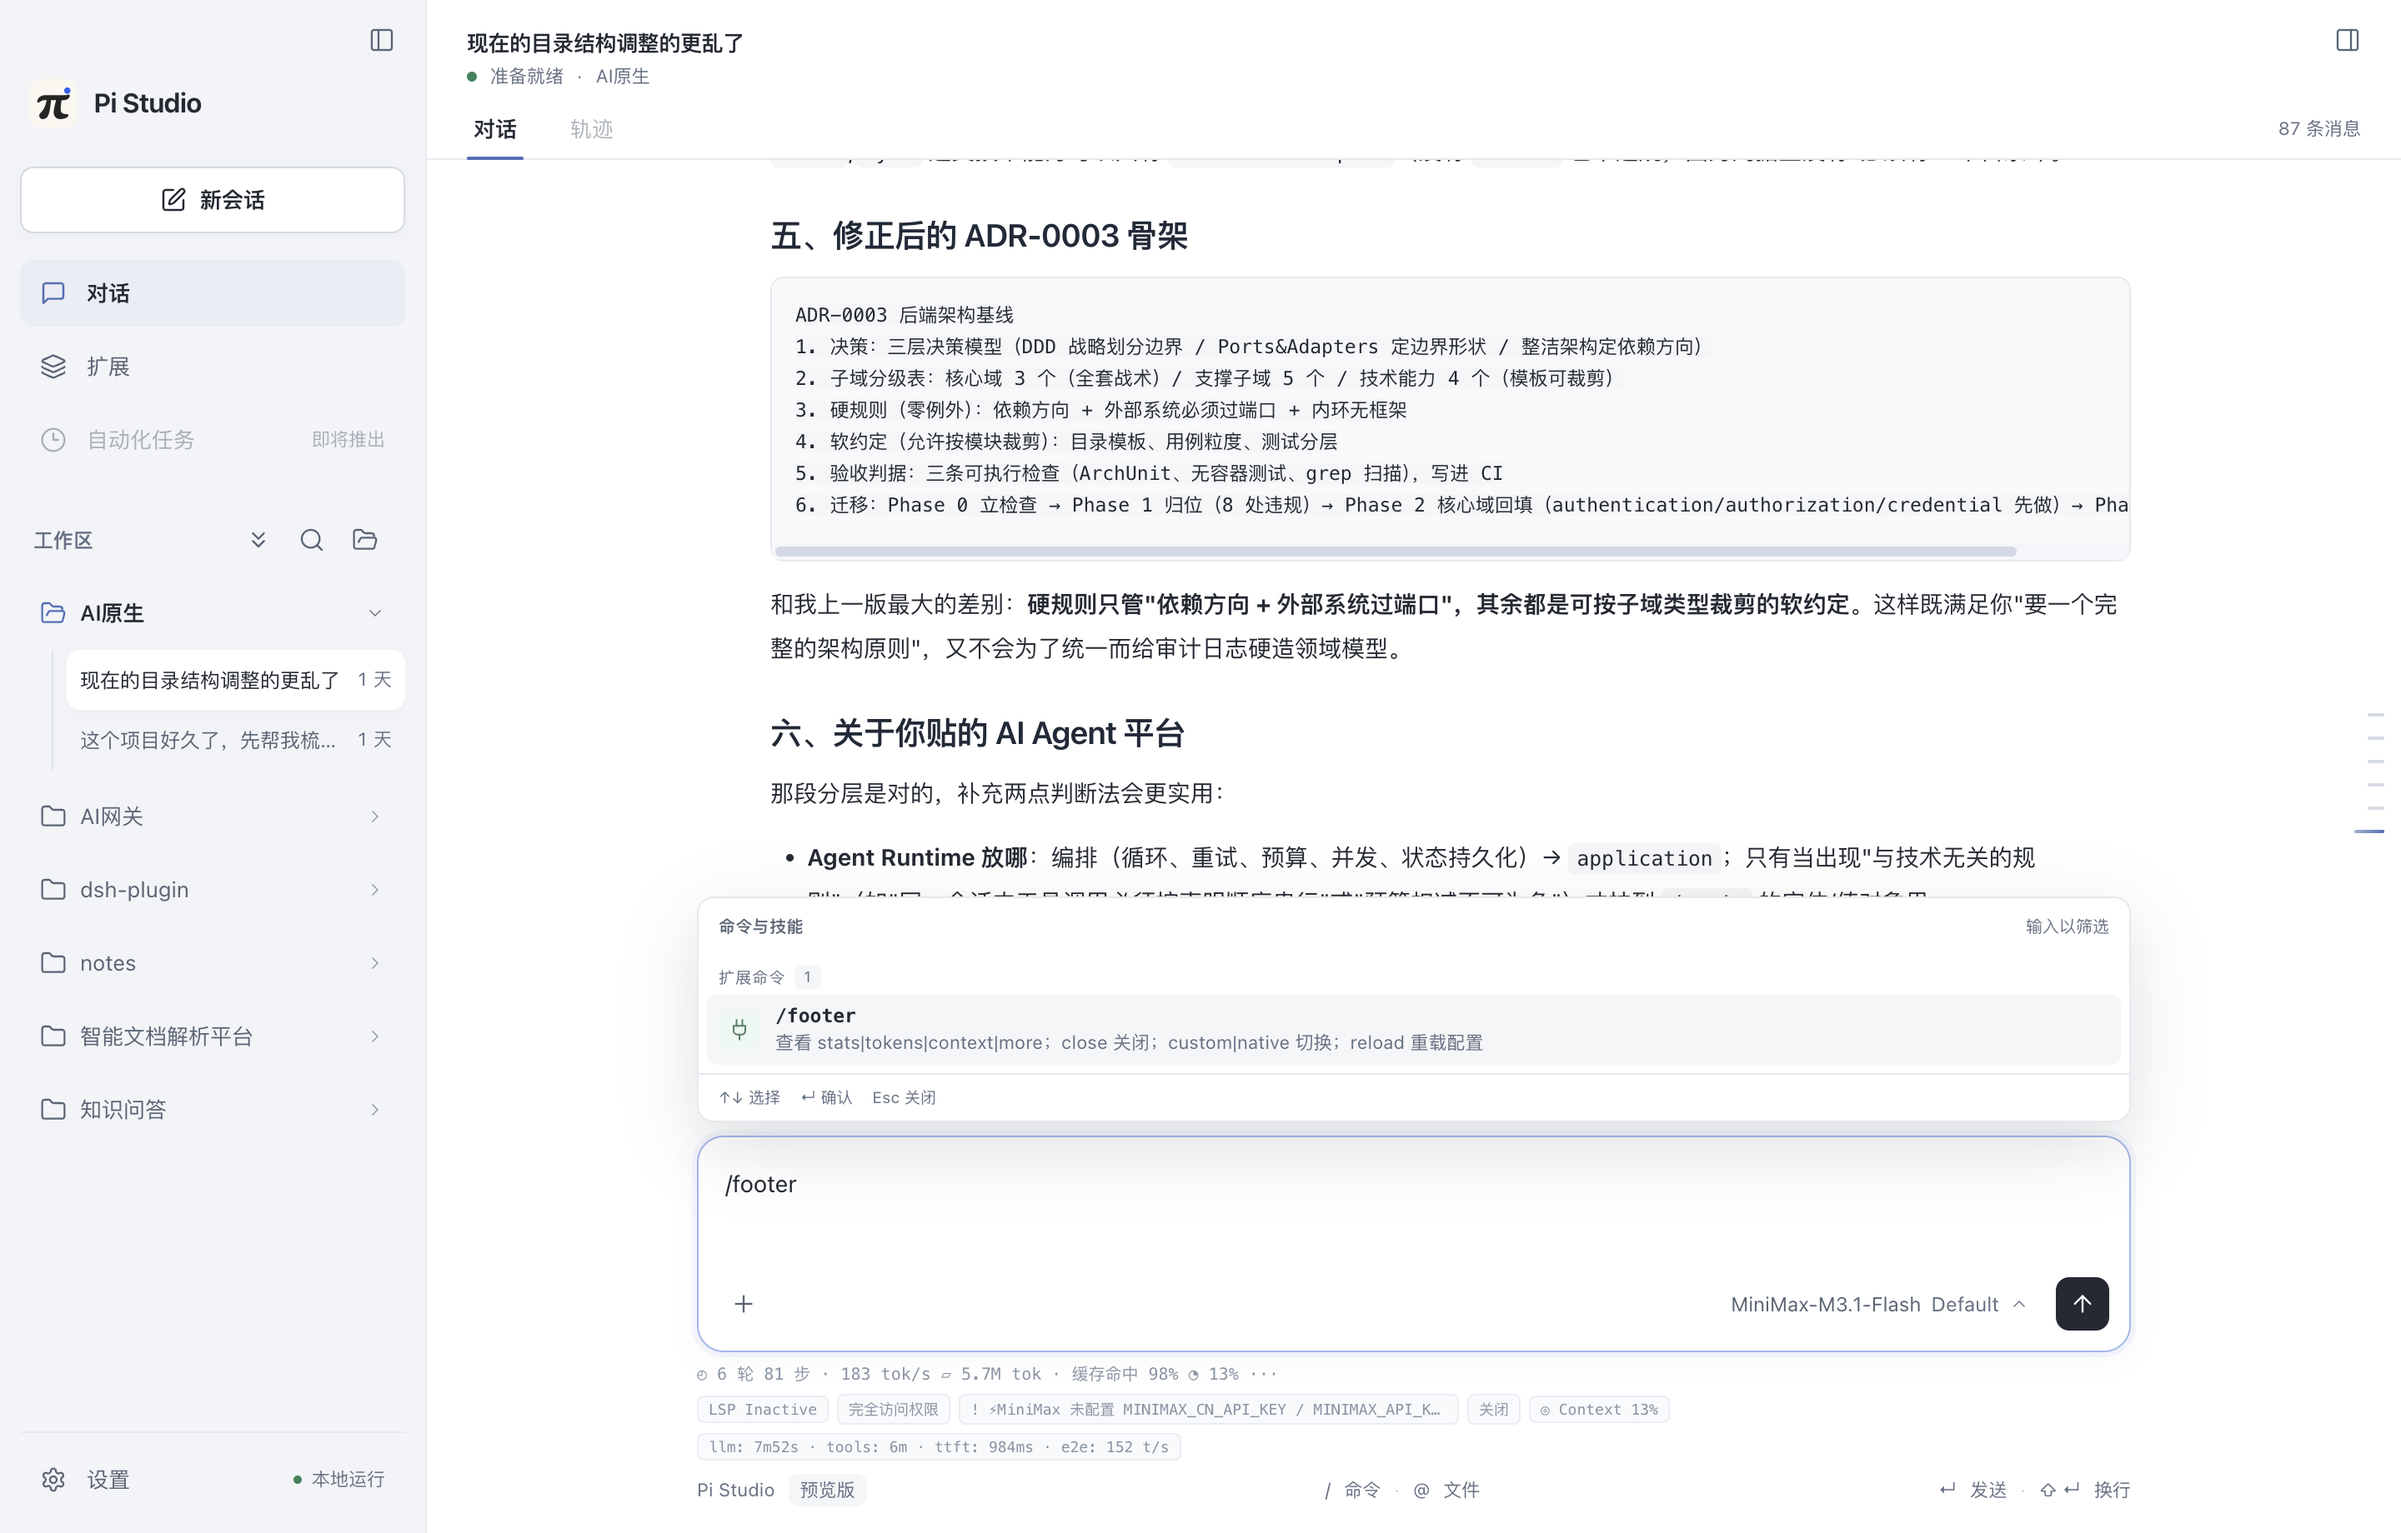
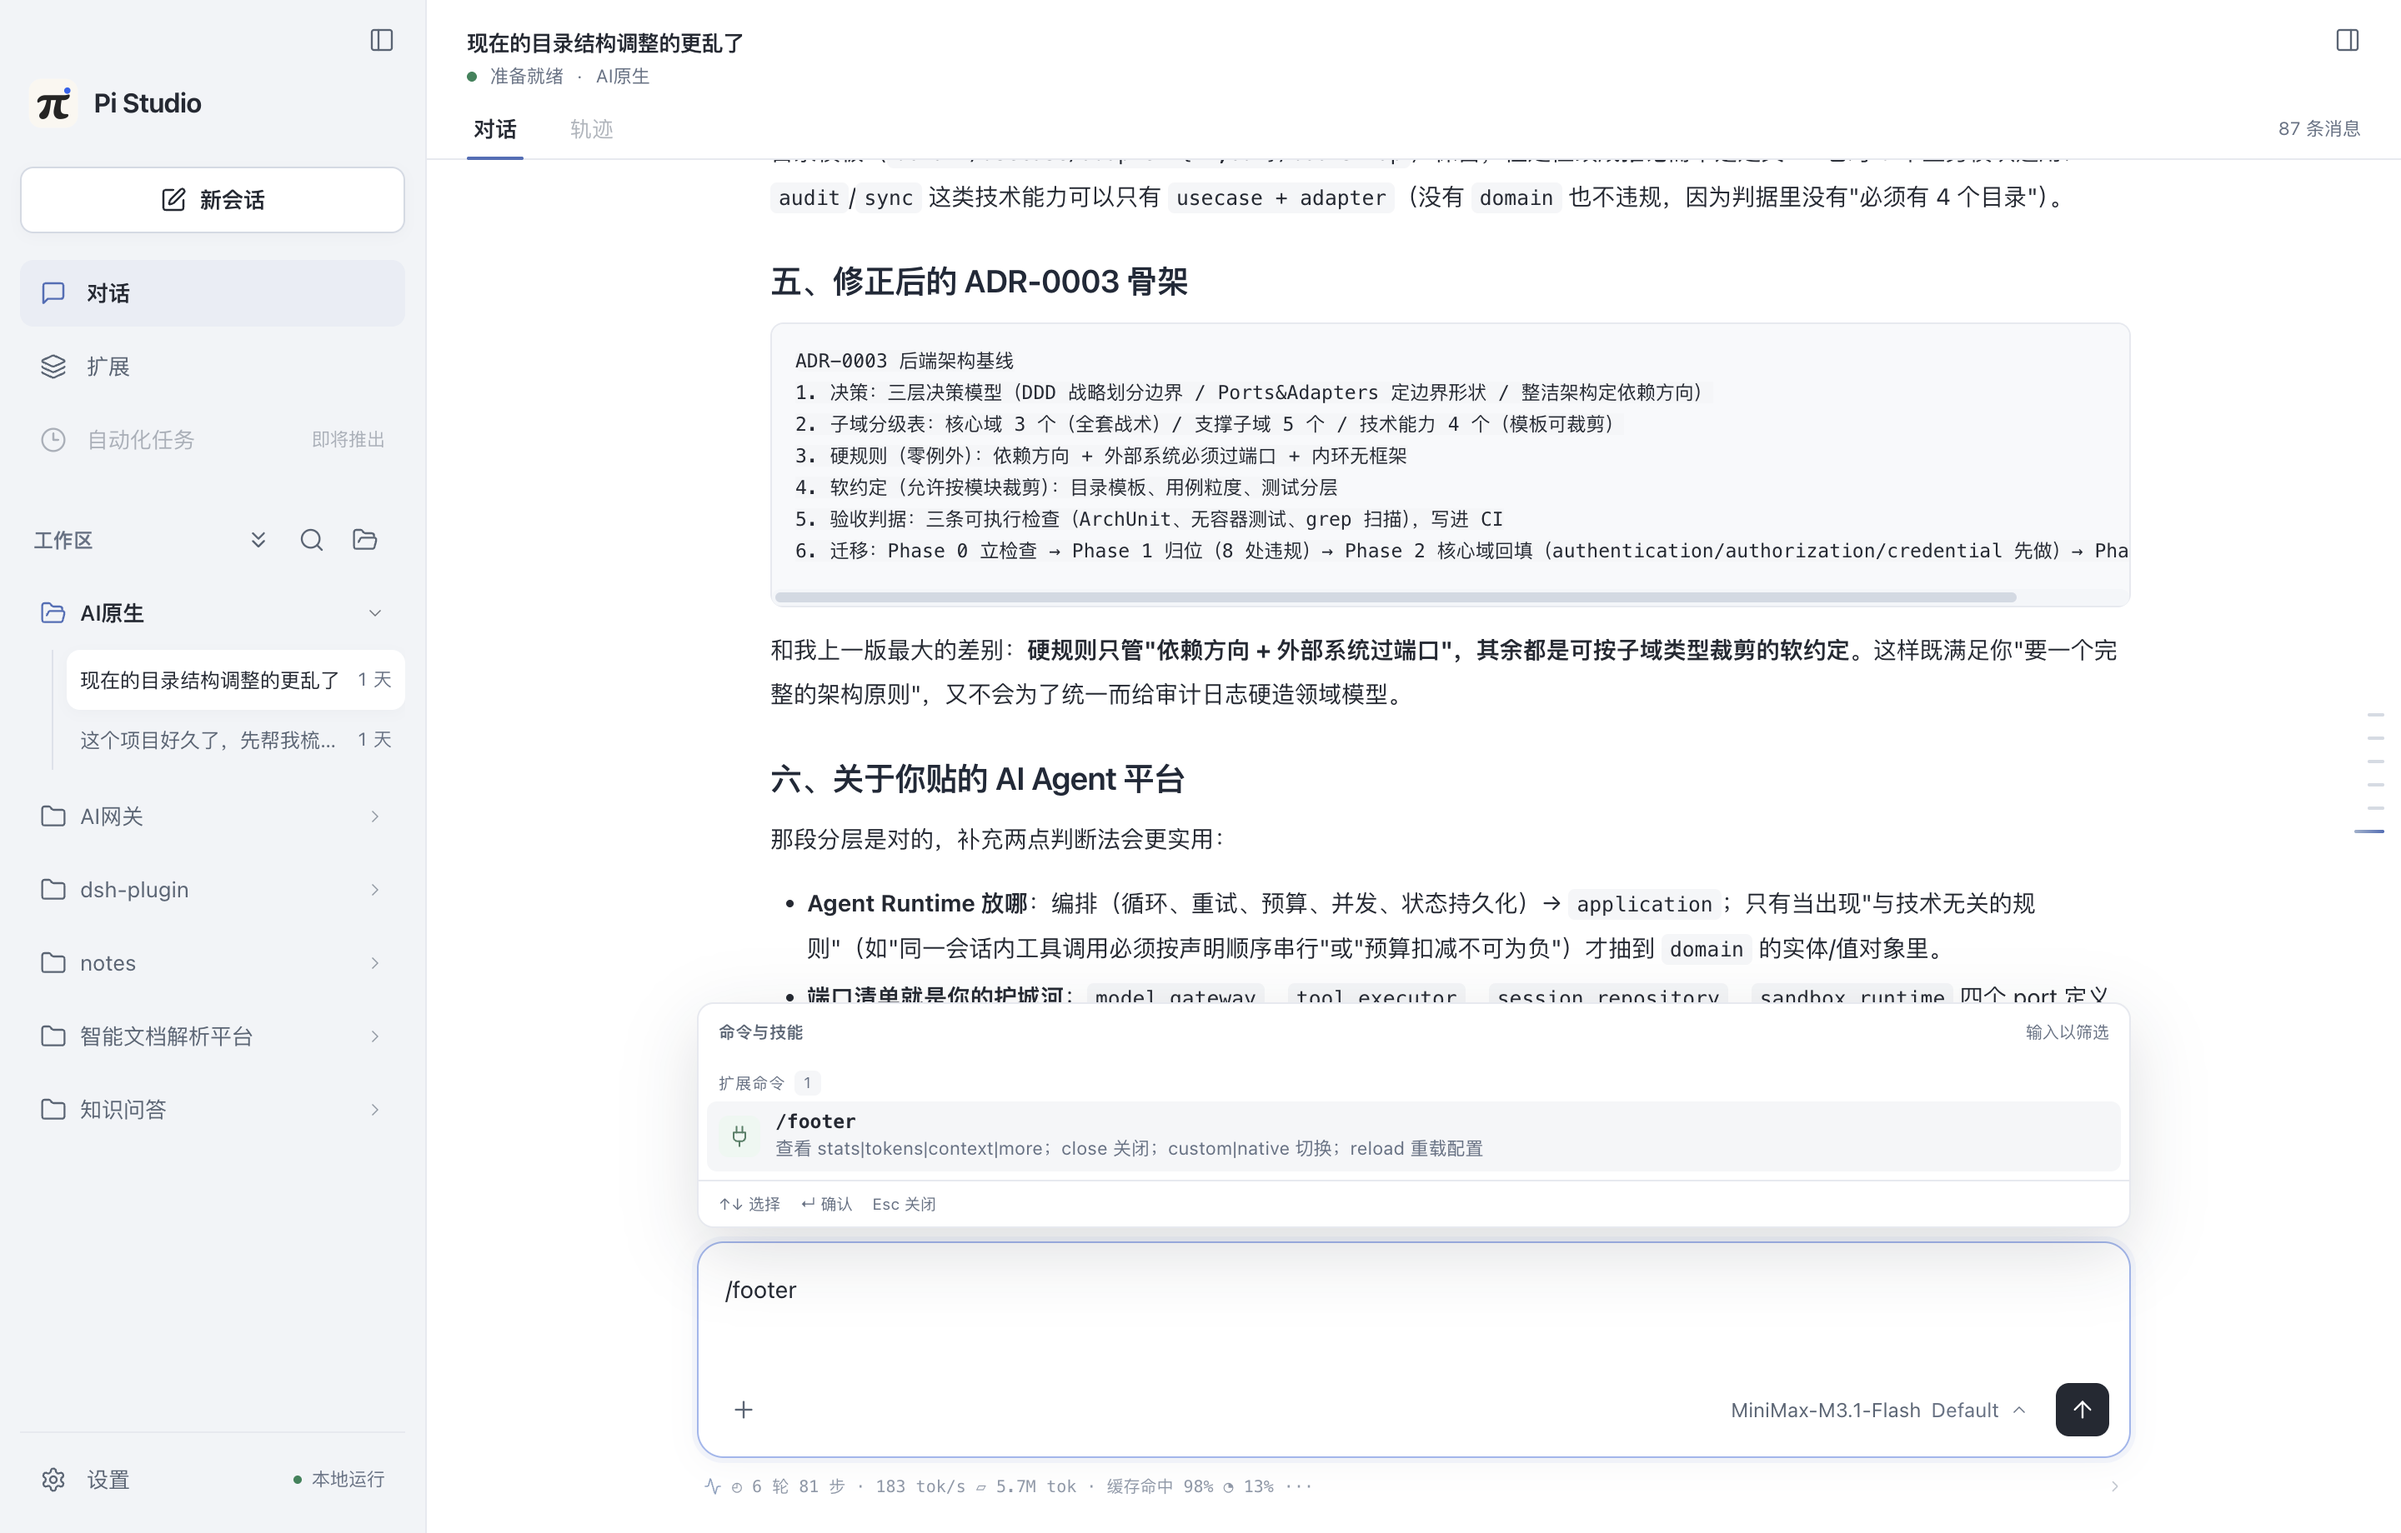
refactor(ui): 将扩展底栏收敛为一行可点击状态

diff --git a/web/src/App.tsx b/web/src/App.tsx
@@ -1,7 +1,7 @@
 import { useCallback, useEffect, useMemo, useRef, useState } from 'react';
 import {
   ArrowUp, Check, ChevronDown, ChevronLeft, ChevronRight, ChevronsDown, ChevronsUp, Clock3, Command, Cpu, FileCode2, FileText, Folder, FolderOpen, Info, Sparkles,
-  AppWindow, Columns2, Compass, Eye, Globe2, Keyboard, Layers3, LayoutGrid, LoaderCircle, Maximize2, MessageSquare, Minimize2, Monitor, Moon, MoreHorizontal, PanelLeft, PanelRight, Pencil, Plus, Plug, RotateCw, Search, Settings, SquarePen, Sun, Terminal, Trash2, X,
+  Activity, AppWindow, Columns2, Compass, Eye, Globe2, Keyboard, Layers3, LayoutGrid, LoaderCircle, Maximize2, MessageSquare, Minimize2, Monitor, Moon, MoreHorizontal, PanelLeft, PanelRight, Pencil, Plus, Plug, RotateCw, Search, Settings, SquarePen, Sun, Terminal, Trash2, X,
 } from 'lucide-react';
 import appIcon from '../../assets/icon.png';
 import { Select } from './components/Select';
@@ -118,6 +118,19 @@ function ComposerSourceIcon({ source }: { source: ComposerCommandSource }) {
   return <Command />;
 }
 
+function extensionStatusLabel(key: string): string {
+  const labels: Record<string, string> = {
+    'pi-quota-status': '额度',
+    'pi-throughput': '性能',
+    'pi-mode-switcher': '运行模式',
+    'pi-policy-engine': '策略',
+    'pi-skill-inject': '技能注入',
+    'context:qos': '上下文',
+    'pi-footer-composer': '底栏',
+  };
+  return labels[key] || key.replace(/^pi-/, '').replace(/-status$/, '').replace(/[-_]/g, ' ');
+}
+
 function contextTone(tokens?: number): string {
   if (!tokens) return 'is-small';
   if (tokens >= 1_000_000) return 'is-million';
@@ -136,6 +149,7 @@ export function App() {
   const [extensionStatuses, setExtensionStatuses] = useState<Record<string, string>>({});
   const [extensionFooter, setExtensionFooter] = useState('');
   const [extensionToast, setExtensionToast] = useState<{ message: string; type: 'info' | 'warning' | 'error' } | null>(null);
+  const [statusPanelOpen, setStatusPanelOpen] = useState(false);
   const [outlineActive, setOutlineActive] = useState(0);
   const [outlineHover, setOutlineHover] = useState<number | null>(null);
   const [workspace, setWorkspace] = useState('');
@@ -1227,6 +1241,7 @@ export function App() {
     });
   }
 
+  const extensionStatusLine = extensionFooter || Object.values(extensionStatuses).filter(Boolean).slice(0, 3).join(' · ');
   const toolResultMap = new Map(messages.filter((message) => message.role === 'toolResult' && message.toolCallId).map((message) => [message.toolCallId as string, message]));
   const transcriptTurns: Array<{ kind: 'user'; message: ChatMessage } | { kind: 'assistant'; messages: ChatMessage[] }> = [];
   for (const message of messages) {
@@ -1687,10 +1702,7 @@ export function App() {
             </div>
             </div>
           </div>
-          {(extensionFooter || Object.keys(extensionStatuses).length > 0) && <div className="extension-status-bar" aria-label="扩展状态">
-            {extensionFooter && <div className="extension-footer-line" title={extensionFooter}>{extensionFooter}</div>}
-            {preferences.performance === 'detailed' && Object.entries(extensionStatuses).slice(0, 8).map(([key, text]) => <span className="extension-status-chip" key={key} title={key}>{text}</span>)}
-          </div>}
+          {extensionStatusLine && <button type="button" className="extension-footer-line" onClick={() => setStatusPanelOpen(true)} title="查看运行状态" aria-haspopup="dialog"><Activity /><span>{extensionStatusLine}</span><ChevronRight /></button>}
           {extensionToast && <div className={`extension-toast is-${extensionToast.type}`} role="status">{extensionToast.message}</div>}
           {isNewConversation && error && <div className="new-conversation-error error-card" role="alert"><strong>暂时无法完成操作</strong><p>{error}</p></div>}
         </div>
@@ -1896,6 +1908,15 @@ export function App() {
             <footer className="detail-footer"><button className="settings-text-button is-danger" disabled={settingsBusy} onClick={() => void removeSkillFromDetail()}>删除技能</button><span /><button className="settings-outline" onClick={closeSkillDetail}>关闭</button></footer>
         </DetailDialog>
       )}
+
+      {statusPanelOpen && <DetailDialog className="status-panel-dialog" onClose={() => setStatusPanelOpen(false)}>
+        <header className="detail-header"><div className="detail-heading"><span className="detail-icon"><Activity /></span><div><h2>运行状态</h2><p>来自 Pi 扩展的实时状态与性能信息。</p></div></div><button className="icon-button" aria-label="关闭运行状态" onClick={() => setStatusPanelOpen(false)}><X /></button></header>
+        <div className="status-panel-body">
+          {extensionFooter && <section><h3>会话摘要</h3><pre>{extensionFooter}</pre></section>}
+          <section><h3>扩展状态</h3>{preferences.performance === 'detailed' && (Object.keys(extensionStatuses).length > 0 ? <dl className="status-panel-list">{Object.entries(extensionStatuses).map(([key, text]) => <div key={key}><dt>{extensionStatusLabel(key)}</dt><dd>{text}</dd></div>)}</dl> : <p className="status-panel-empty">当前没有扩展状态。</p>)}</section>
+        </div>
+        <footer className="detail-footer"><button className="settings-outline" onClick={() => { setStatusPanelOpen(false); void window.piApi.runExtensionCommand({ sessionId: session?.id || '', command: '/footer' }).catch((error) => setError(error instanceof Error ? error.message : String(error))); }} disabled={!session?.id}>打开 /footer 菜单</button><span /><button className="settings-outline" onClick={() => setStatusPanelOpen(false)}>关闭</button></footer>
+      </DetailDialog>}
 
       {shortcutsOpen && <DetailDialog className="shortcuts-dialog" onClose={() => setShortcutsOpen(false)}>
         <header className="detail-header"><div className="detail-heading"><span className="detail-icon"><Keyboard /></span><div><h2>快捷键</h2><p>Pi Studio 桌面端当前可用的键盘操作。</p></div></div><button className="icon-button" aria-label="关闭快捷键" onClick={() => setShortcutsOpen(false)}><X /></button></header>

diff --git a/web/src/app.css b/web/src/app.css
@@ -1388,3 +1388,23 @@ body *::-webkit-scrollbar-corner { background: transparent; }
 :root[data-theme="dark"] .skill-source-head h3 { color: var(--faint); }
 :root[data-theme="dark"] .settings-empty { background: #151a20; }
 :root[data-theme="dark"] .chat-loading-line { background: linear-gradient(90deg, transparent, #7d9ad6, #c7a46a, transparent); }
+
+/* Extension footer is a single clickable line. Details live in the panel. */
+.extension-status-bar { display: none; }
+.extension-footer-line { display: flex; align-items: center; gap: 6px; width: 100%; max-width: var(--content); min-height: 24px; margin: 5px auto 0; padding: 1px 4px; overflow: hidden; border: 0; background: transparent; color: #8d98a8; font: 10px var(--mono); text-align: left; }
+.extension-footer-line:hover { background: var(--surface-soft); color: var(--muted); border-radius: 4px; }
+.extension-footer-line > svg:first-child { width: 11px; height: 11px; flex: none; color: #8da2c0; }
+.extension-footer-line > svg:last-child { width: 11px; height: 11px; flex: none; margin-left: auto; opacity: .55; }
+.extension-footer-line > span { min-width: 0; overflow: hidden; text-overflow: ellipsis; white-space: nowrap; }
+.status-panel-dialog { width: min(650px, 92vw); }
+.status-panel-body { padding: 4px 20px 14px; overflow: auto; }
+.status-panel-body section { padding: 14px 0; border-top: 1px solid var(--border); }
+.status-panel-body section:first-child { border-top: 0; }
+.status-panel-body h3 { margin: 0 0 8px; color: var(--muted); font-size: 10px; font-weight: 600; letter-spacing: .04em; text-transform: uppercase; }
+.status-panel-body pre { margin: 0; padding: 10px 11px; overflow: auto; border: 1px solid var(--border); border-radius: 6px; background: var(--surface-soft); color: var(--muted); font: 10.5px/1.7 var(--mono); white-space: pre-wrap; overflow-wrap: anywhere; }
+.status-panel-list { margin: 0; }
+.status-panel-list > div { display: grid; grid-template-columns: 100px minmax(0, 1fr); gap: 12px; padding: 7px 0; border-top: 1px solid var(--border); font-size: 11px; }
+.status-panel-list > div:first-child { border-top: 0; }
+.status-panel-list dt { color: var(--faint); }
+.status-panel-list dd { margin: 0; color: var(--muted); white-space: pre-wrap; overflow-wrap: anywhere; }
+.status-panel-empty { margin: 0; color: var(--faint); font-size: 11px; }

diff --git a/web/src/global.d.ts b/web/src/global.d.ts
@@ -56,6 +56,7 @@ declare global {
       searchFiles(payload: { cwd: string; query: string }): Promise<{ files: ComposerFile[] }>;
       saveAttachment(payload: { sessionId: string; text: string }): Promise<ChatAttachment & { notice: string; promptText: string }>;
       queuePrompt(payload: { sessionId: string; text: string; behavior: 'queue' | 'steer'; mentions?: string[]; attachments?: string[]; images?: Array<{ type: 'image'; data: string; mimeType: string }> }): Promise<{ disposition: string }>;
+      runExtensionCommand(payload: { sessionId: string; command: string }): Promise<{ ok: boolean }>;
       pickAttachments(payload: { sessionId?: string }): Promise<{ attachments: ComposerAttachment[] }>;
       saveUpload(payload: { sessionId?: string; name: string; mime: string; data: string }): Promise<UploadedAttachment>;
       chooseWorkspace(): Promise<string | undefined>;
